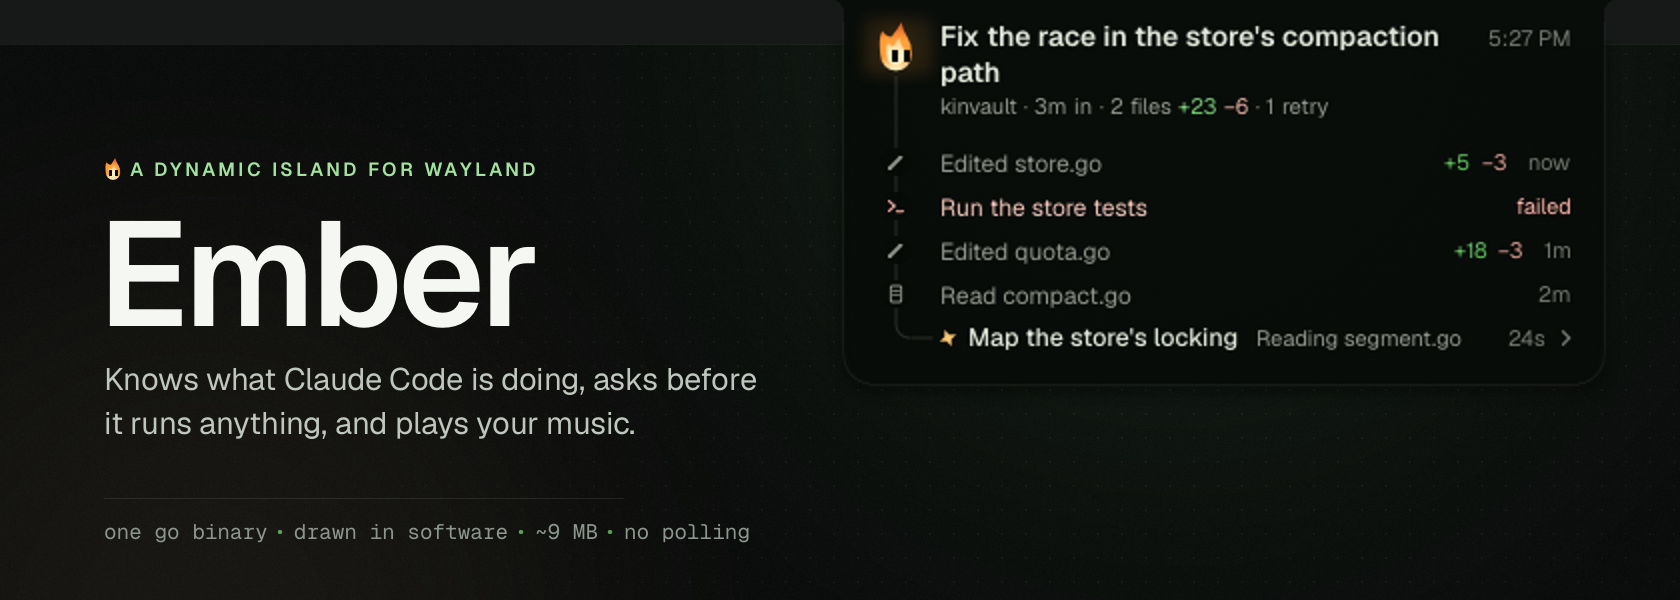
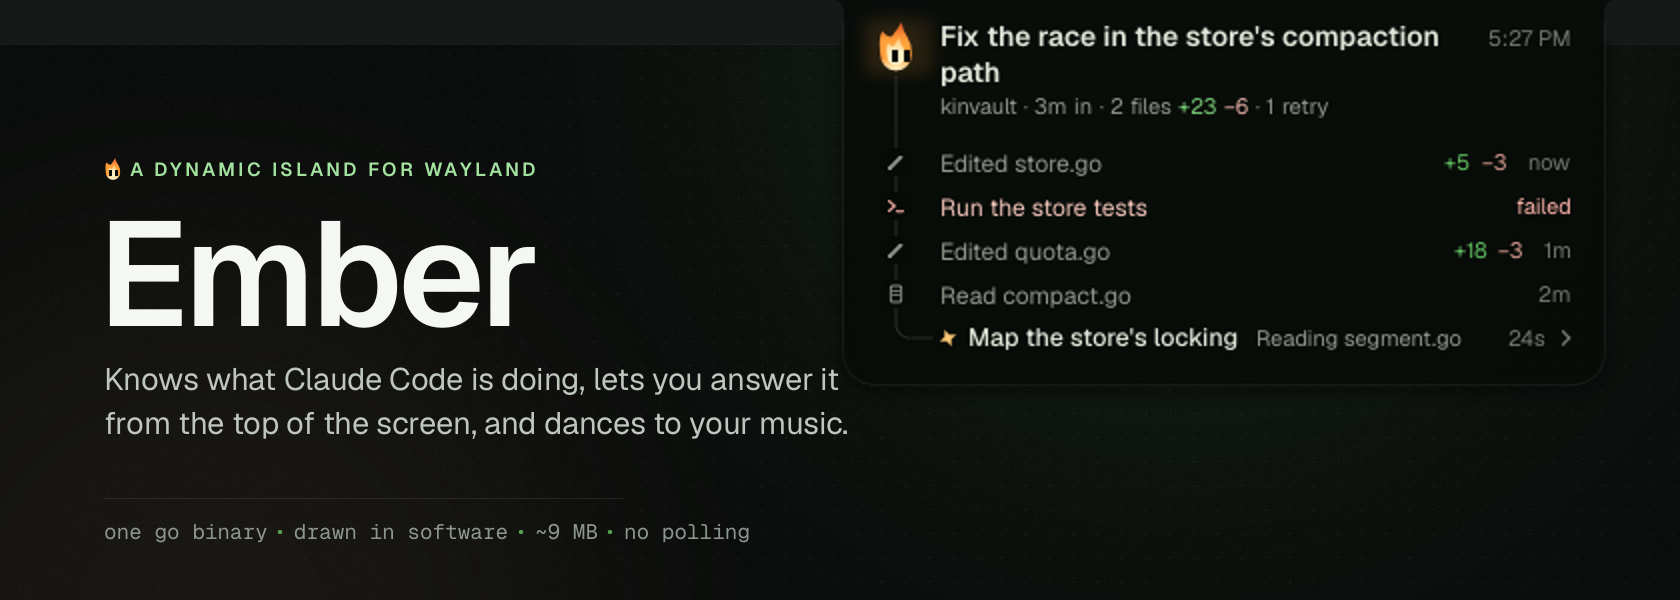
docs: honest positioning: a dynamic island made for Claude Code; Claude asks, Ember lets you answer; the name explained

Changed region(s): [[0.0619, 0.69, 0.4952, 0.75], [0.3405, 0.6, 0.4952, 0.66]]

diff --git a/internal/island/render_demo_test.go b/internal/island/render_demo_test.go
@@ -502,11 +502,11 @@ func TestBanner(t *testing.T) {
 		tag := face(fRegular, 31)
 		mono := face(fMono, 21)
 		lx, top := float32(104), float32(176)
-		lines := []string{"Knows what Claude Code is doing, asks before", "it runs anything, and plays your music."}
+		lines := []string{"Knows what Claude Code is doing, lets you answer it", "from the top of the screen, and dances to your music."}
 		if sz.name == "social" {
 			title, tag = face(fSemiBold, 128), face(fRegular, 29)
 			lx, top = 84, 230
-			lines = []string{"Knows what Claude Code is doing,", "asks before it runs anything,", "and plays your music."}
+			lines = []string{"Knows what Claude Code is doing,", "lets you answer it from the top", "of the screen, and dances to your music."}
 		}
 		center := func(float32) float32 { return lx }
 		eb := "A DYNAMIC ISLAND FOR WAYLAND"

diff --git a/README.md b/README.md
@@ -12,9 +12,9 @@
 </p>
 
 <p align="center">
-  A small pill that hangs from the top of your screen and morphs to show what matters right now:<br>
-  what <b>Claude Code</b> is doing and what it needs from you, the song that's playing, and the moment you press a key.<br>
-  One native Go binary. No toolkit, no GPU, about 9 MB of memory.
+  <b>A dynamic island for Wayland, made for Claude Code.</b><br>
+  Watch your sessions, answer their requests, and see your music and system moments from the top of your screen.<br>
+  Useful without Claude too. One native Go binary: no toolkit, no GPU, about 9 MB of memory.
 </p>
 
 <p align="center">
@@ -36,8 +36,11 @@
 
 You run a few Claude Code sessions in terminals you can't all see. You want to know, at a glance, without switching
 windows: *does anything need me, is it going well, what just happened.* Ember answers those three questions from
-the top of the screen, and lets you answer Claude's permission requests right there. When nothing's going on it's a
-clock with a small flame that breathes, blinks, glances around and falls asleep at night.
+the top of the screen. Claude is still the one that asks for permission; Ember lets you answer from up there
+instead of hunting for the terminal. When nothing's going on it's a clock with a small flame that breathes, blinks, glances
+around and falls asleep at night.
+
+The name is two things: Ember, the app, and Ember, the flame who lives in it.
 
 ## What it shows
 
